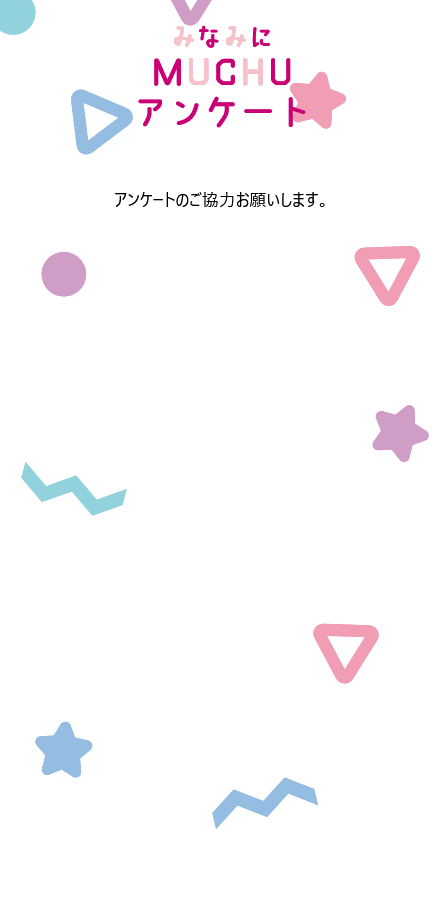
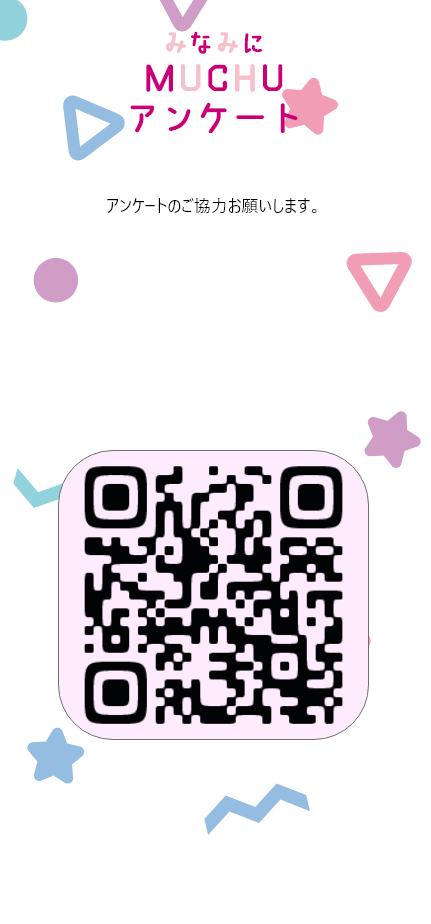
スマホサイズに変更取り消し

diff --git a/anke-to.css b/anke-to.css
@@ -25,7 +25,21 @@ body{
     text-align: center;
   }
 
-nav{
+
+
+.button{
+    width:500px;
+    height:200px;
+    border-radius: 5px;
+    background-color: rgb(252, 151, 183); 
+    padding: 10px;
+    text-decoration: none;
+    color: white;
+    font-size: 25px;
+    text-align: center;
+  }
+
+.menu{
     position:absolute;
     text-align: center;
 	  top: 870px;
@@ -36,4 +50,13 @@ nav{
     z-index:10000;
 }
 
-
+.link{
+    position:absolute;
+    text-align: center;
+	  top: 300px;
+	  left:68px;
+    font-size: 18px;
+    width:300px;
+    height: 90px;
+    z-index:10000;
+}

diff --git a/anke-to.html b/anke-to.html
@@ -8,11 +8,12 @@
 
 </head>
 
-<body>   
-    
-    <nav>
-        
+<body> 
+    <nav class="link">
+          <a href="https://forms.gle/tdLibYCRWJgXeRJ17" class="button">こちらをクリック</a>  
+    </nav>
+
+    <nav class="menu">
           <a href="seikai.html" class="btn">もどる</a>  
-          
-          </nav>
+    </nav>
 </body>

diff --git a/home.html b/home.html
@@ -2,8 +2,6 @@
 <html lang="ja">
   <head>
     <meta charset="utf-8">
-    <meta name="viewport" content="width=device-width, user-scale=yes,
-      initial-scale=1.0, maximum-scale=5.0" />
     <title>スタート</title>
       <link rel="stylesheet" href="home.css" type="text/css" />
 
